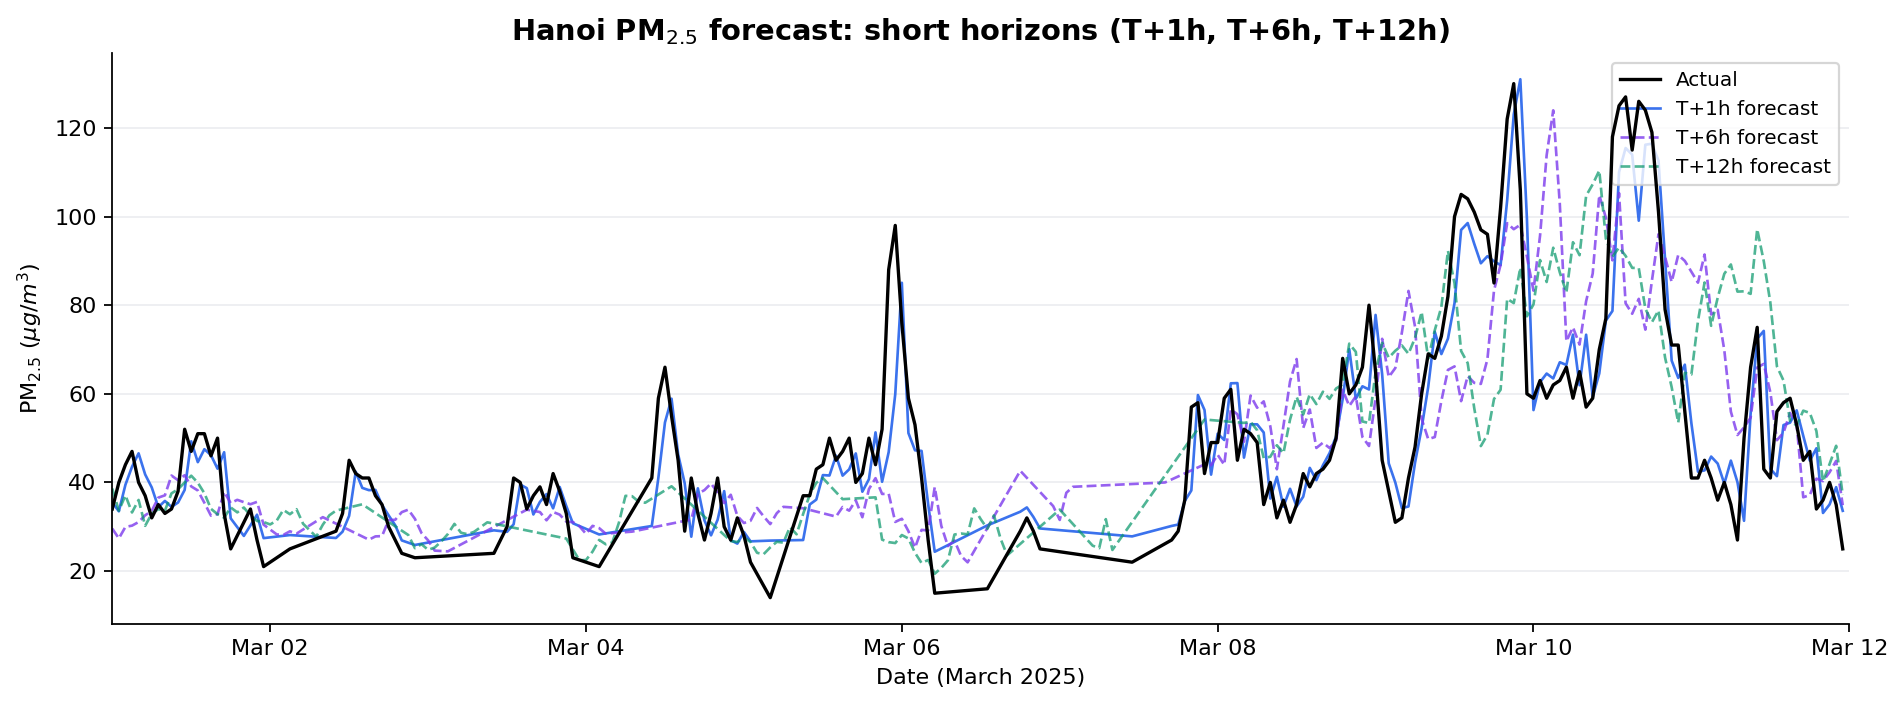
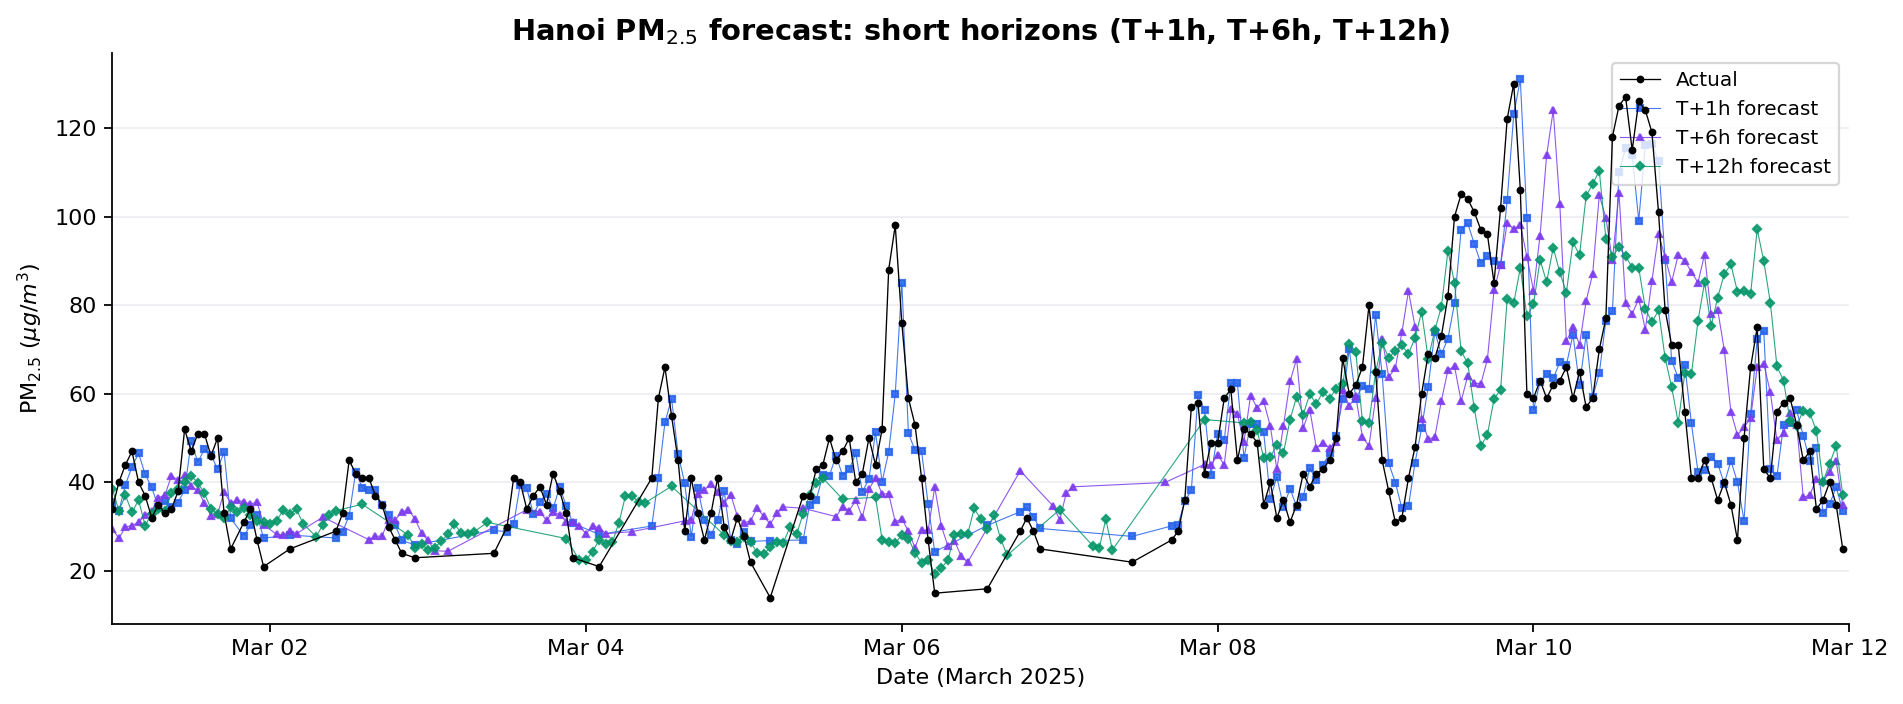
Use markers with thin connecting lines for forecast charts
Each hourly measurement shown as a distinct dot (not continuous line).
Thin lines connect points to show trend without implying continuity.

Changed region(s): [[0.5891, 0.0938, 0.9921, 0.75], [0.062, 0.3438, 0.6201, 0.8438]]

diff --git a/scripts/generate_forecast_comparison.py b/scripts/generate_forecast_comparison.py
@@ -118,17 +118,19 @@ def plot_panel(results, horizons, title, filename):
     actual_h = min(horizons)
     actual = results[actual_h]
     ax.plot(actual["target_time"], actual["target_pm25"],
-            color="black", linewidth=1.5, label="Actual", zorder=10)
+            color="black", linewidth=0.6, marker="o", markersize=2.5,
+            label="Actual", zorder=10)
 
     colors = {1: "#2563eb", 6: "#7c3aed", 12: "#059669",
               24: "#2563eb", 48: "#7c3aed", 72: "#dc2626"}
-    alphas = {1: 0.9, 6: 0.8, 12: 0.7, 24: 0.9, 48: 0.8, 72: 0.7}
+    markers = {1: "s", 6: "^", 12: "D", 24: "s", 48: "^", 72: "D"}
 
     for h in horizons:
         df = results[h]
         ax.plot(df["target_time"], df["pred_pm25"],
-                color=colors[h], linewidth=1.2, alpha=alphas[h],
-                label=f"T+{h}h forecast", linestyle="-" if h == horizons[0] else "--")
+                color=colors[h], linewidth=0.5, alpha=0.85,
+                marker=markers[h], markersize=2.5,
+                label=f"T+{h}h forecast")
 
     ax.set_title(title, fontsize=13, weight="bold")
     ax.set_ylabel(r"PM$_{2.5}$ ($\mu g/m^3$)")